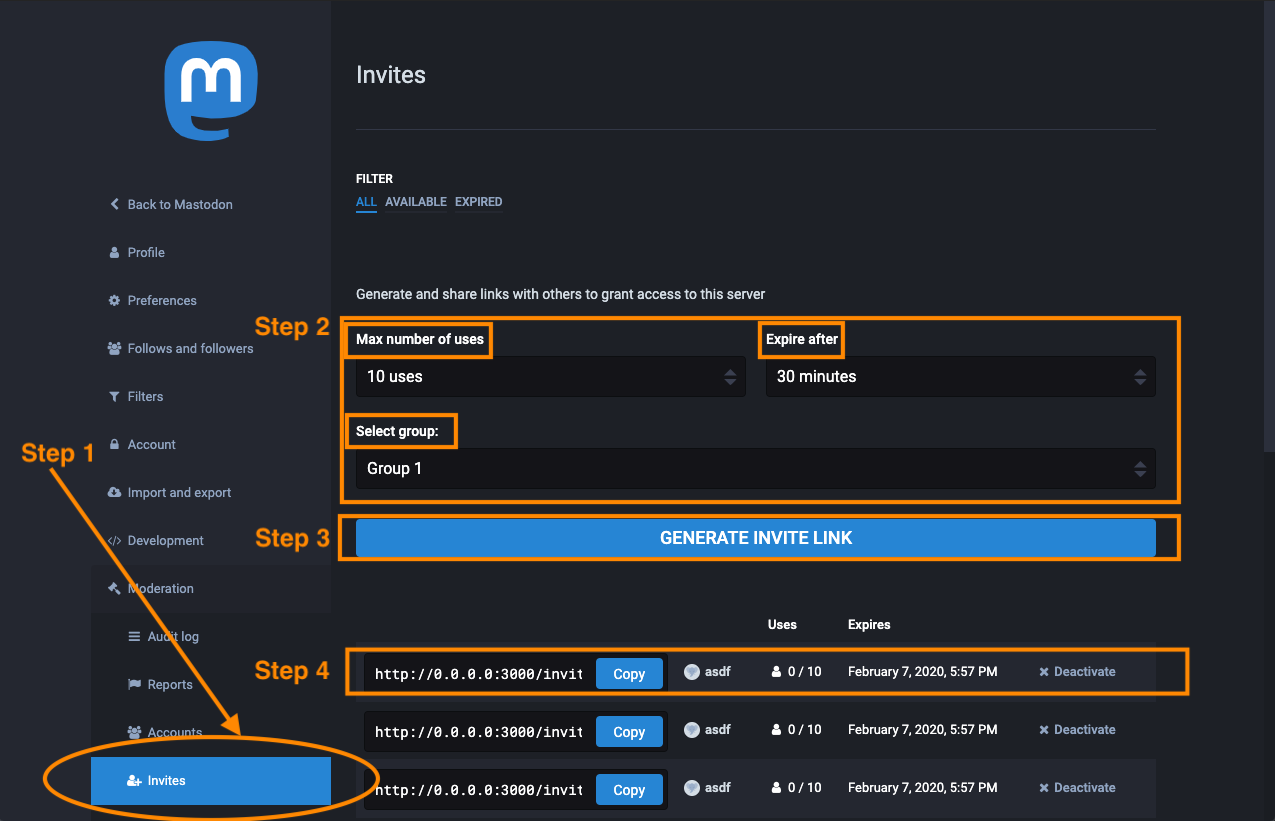
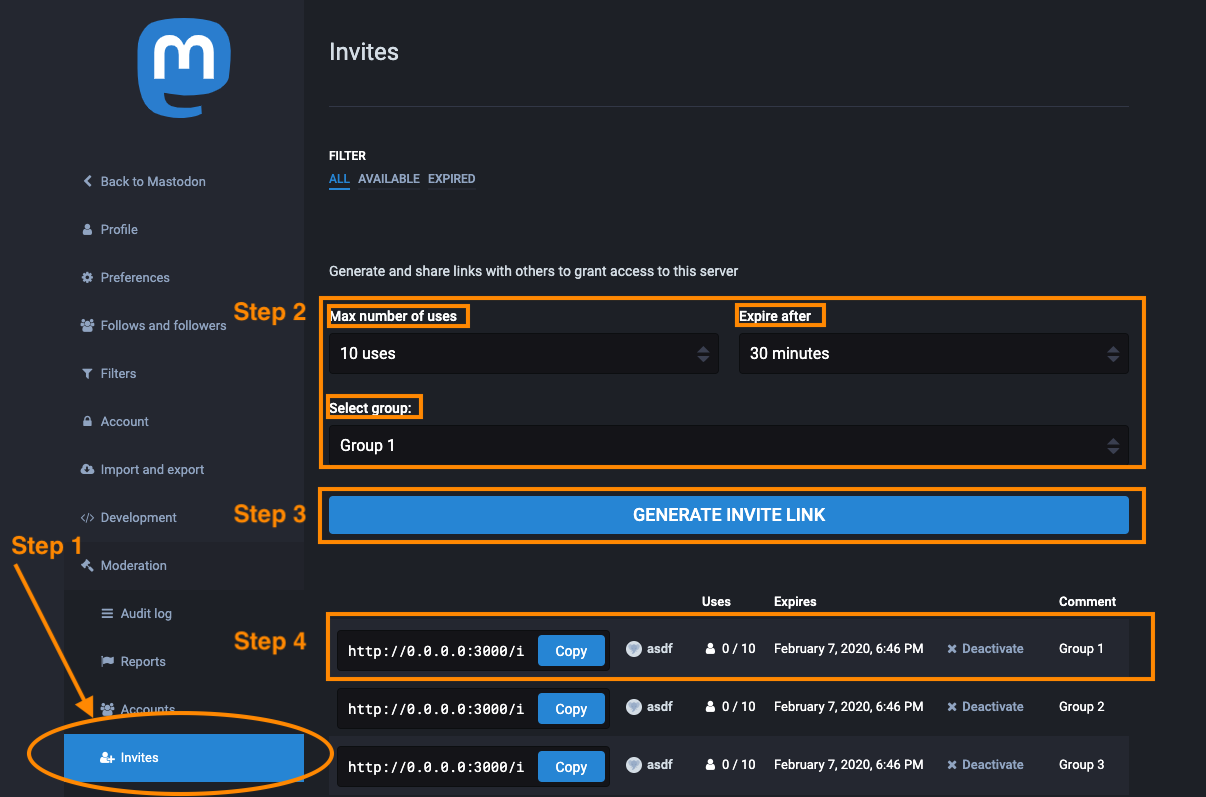
updated to match latest invites view

diff --git a/docs/provisionWalkthrough.md b/docs/provisionWalkthrough.md
@@ -2,7 +2,7 @@
 
 _Follow this guide to create invite links and get groups set up for the Bridges Pilot._
 
-_If you experience any issues contact [kgary@asu.edu](mailto:kgary@asu.edu)_ 😇
+_If you experience any issues contact your admin and direct them to [Managing Moderators](./manageModerators.md) or send and angry email to [kgary@asu.edu](mailto:kgary@asu.edu)_ 😇
 
 ### Precheck
 
@@ -19,7 +19,7 @@ In order to create invite links you must have at least Moderator role. Follow th
 Provisioning is intended to follow this work flow:
 
 - Go to `Preferences > Moderation > Invites` 
-- def the values for:
+- Set the values for:
 
 | Name  | Description  |   
 |---|---|
@@ -28,7 +28,7 @@ Provisioning is intended to follow this work flow:
 | Select group | the group that all users of the link will automatically join | 
 
 - Click `Generate Invite Link`.
-- Immediately copy the link and note which `Group` it belongs to. 
+- Verify the link is correct and copy it. 
 - Share the link with group members and assist them with filling out the registration form online.
 
 example: ![generate_link](./img/generate_link.png)
@@ -41,3 +41,4 @@ example: ![generate_link](./img/generate_link.png)
  _Note: if any user logged out while other users registered the numbers may not perfectly match, however, when they log back in it will automatically update_ 
 
 example: ![verify_success](./img/verify_provision.png) 
+

diff --git a/docs/manageModerators.md b/docs/manageModerators.md
@@ -1,0 +1,6 @@
+⚠🚧`UNDER CONSTRUCTION`🚧⚠
+#### Create a Moderator
+logged in as Admin, navigate to Preferences > Moderation > Accounts, select user you wish to promote and in the Permissions field click 'Promote', confirm promotion and now user should be shown as 'Moderator'
+
+#### Allow Moderators to Create Invite Links
+In mastodon, logged in as an `ADMIN`, navigate to `Preferences -> Administration -> Site Settings`, find "Allow invitations by" and set to `Moderator`
